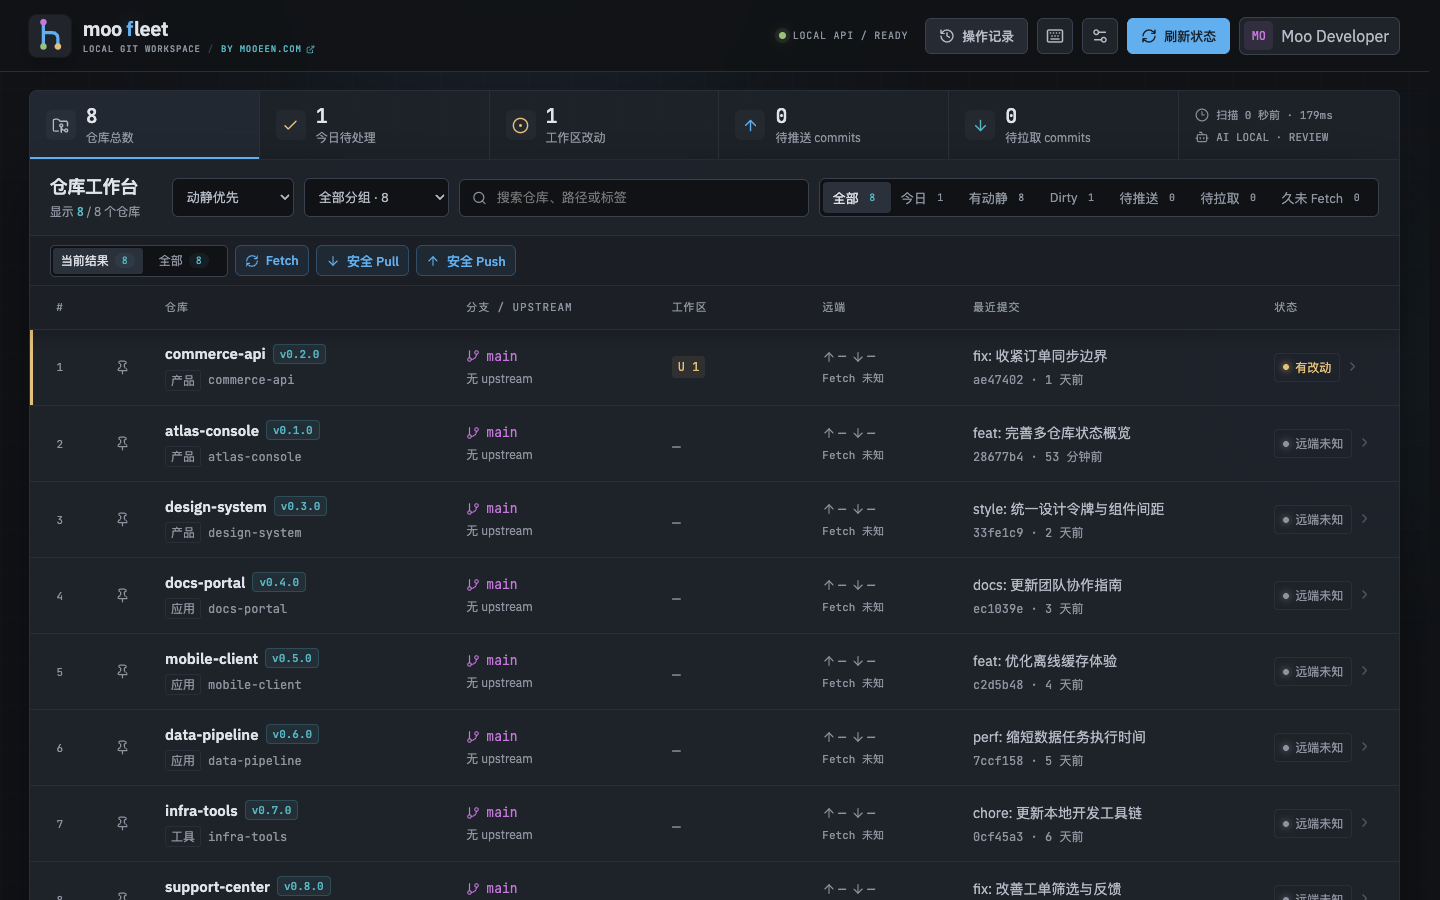
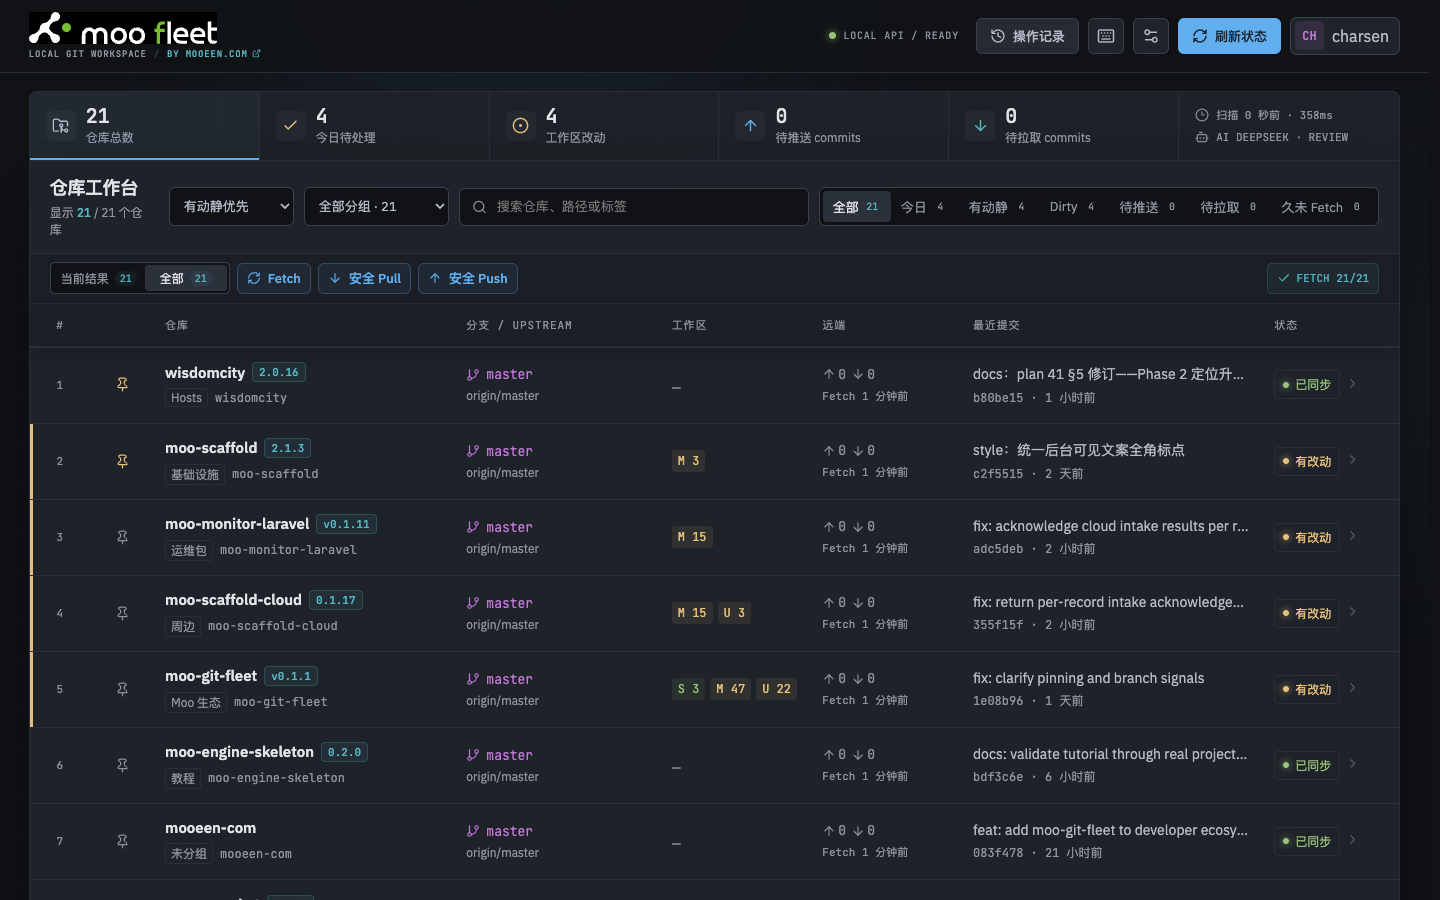
docs: refresh README branding and features

diff --git a/GIT-FLEET-PLAN.md b/GIT-FLEET-PLAN.md
@@ -2647,7 +2647,7 @@ POST /api/repositories/:id/branches/switch
 
 ### 67.1 视觉与资产边界
 
-- 页面使用完整横版 `public/logo_2.svg`；favicon 与 macOS `.icns` 使用独立方形 `public/logo_icon.svg`，避免横版字标在小尺寸下不可辨识。
+- 页面使用完整横版 `public/logo_2.svg`；README 使用由该资产导出的 PNG，避免 Gitee 对 SVG 的异常占位渲染；favicon 与 macOS `.icns` 使用独立方形 `public/logo_icon.svg`。
 - 两份正式资产都使用纯黑不透明背景、白色标志与 `#79bd31` 绿色强调；App 图标必须保持方形画布并留出安全边距，禁止构建阶段拉伸。
 - 外部设计路径保持原样，不依赖字体文件；macOS 构建从方形 SVG 生成 16～1024px 完整 ICNS 尺寸组。
 - 支持桌面宽度 1024px 及以上，不因新 Logo 改变顶栏高度或产生横向溢出。
@@ -2975,7 +2975,7 @@ POST /api/repositories/:id/branches/switch
 
 - 顶栏使用完整横版 Logo，保留 `LOCAL GIT WORKSPACE / BY MOOEEN.COM` 品牌副线；不再重复渲染文本版产品名。
 - favicon 和 macOS 启动图标使用独立方形资产；方形画布中的标志按原比例居中，四周保留安全边距，背景必须为纯黑不透明色。
-- macOS 构建脚本只从 `logo_icon.svg` 生成 ICNS，页面和 README 使用 `logo_2.svg`；两类用途不再强行共用同一宽高比资产。
+- macOS 构建脚本只从 `logo_icon.svg` 生成 ICNS，页面使用 `logo_2.svg`，README 使用其 PNG 导出；两类用途不再强行共用同一宽高比资产。
 - 本轮沿用内部测试 ad-hoc 签名和辅助安装器；不伪造 Developer ID，不跳过 Gatekeeper，不声明已经公证。
 
 ### 84.2 执行与验证
@@ -2983,6 +2983,6 @@ POST /api/repositories/:id/branches/switch
 | 日期 | 步骤 | 状态 | 业务与代码回填 | 验证结果 |
 | --- | --- | --- | --- | --- |
 | 2026-07-22 | B0 黑底与画布规范化 | 已完成 | `logo_2.svg` 增加纯黑背景；`logo_icon.svg` 改为 400×400 纯黑方形画布并居中原始白绿图形 | SVG 分别渲染为 1173×199 和 400×400，透明区域已消除，图形无拉伸 |
-| 2026-07-22 | B1 页面与构建源接入 | 已完成 | 顶栏替换为横版 Logo，favicon 改用方形图标，README 更新品牌图；macOS 构建脚本改从 `logo_icon.svg` 生成 ICNS | 1024×900、1440×900 无横向溢出；Logo 实际尺寸 188×31.94，控制台 0 error / 0 warning |
+| 2026-07-22 | B1 页面与构建源接入 | 已完成 | 顶栏替换为横版 Logo，favicon 改用方形图标，README 使用 Gitee 兼容的 PNG 品牌图；macOS 构建脚本改从 `logo_icon.svg` 生成 ICNS | 1024×900、1440×900 无横向溢出；Logo 实际尺寸 188×31.94，控制台 0 error / 0 warning；README 不再触发 SVG 异常占位图 |
[1 lines of base64/hex data omitted]
 | 2026-07-22 | R0 全量回归 | 已完成 | 回归测试、typecheck、macOS 原生专项、生产与制品构建、依赖审计和 diff 检查 | 31 个测试文件 / 143 项、`npm run typecheck`、`npm run test:mac-native`、`npm run build:mac`、0 生产依赖漏洞与 `git diff --check` 全部通过 |
